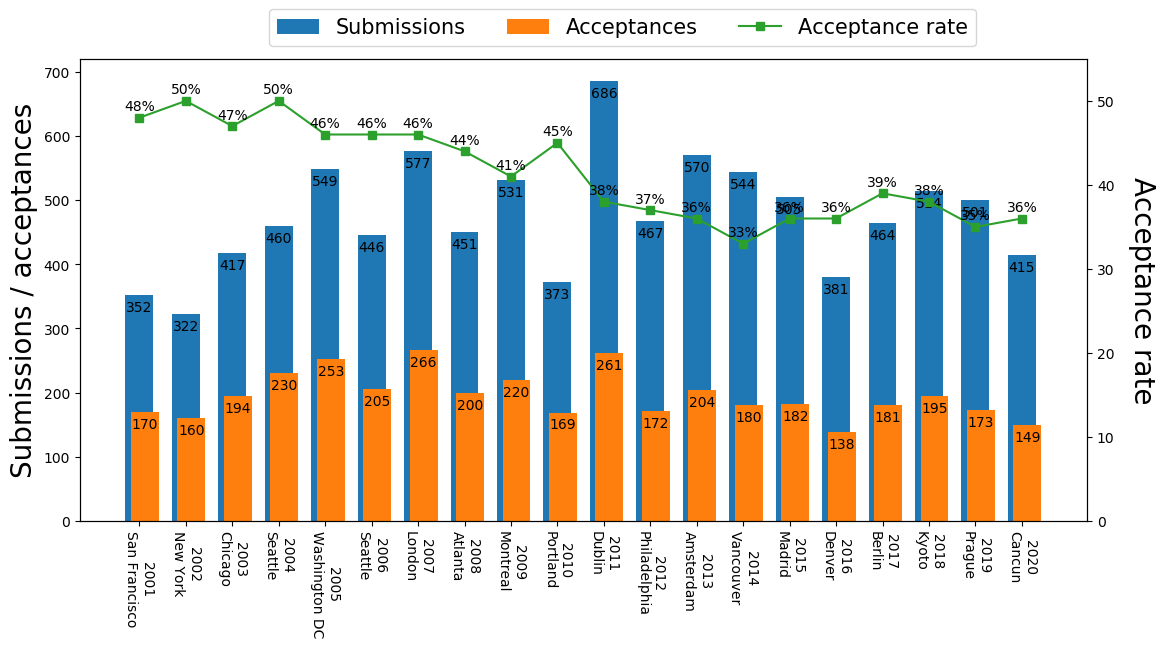
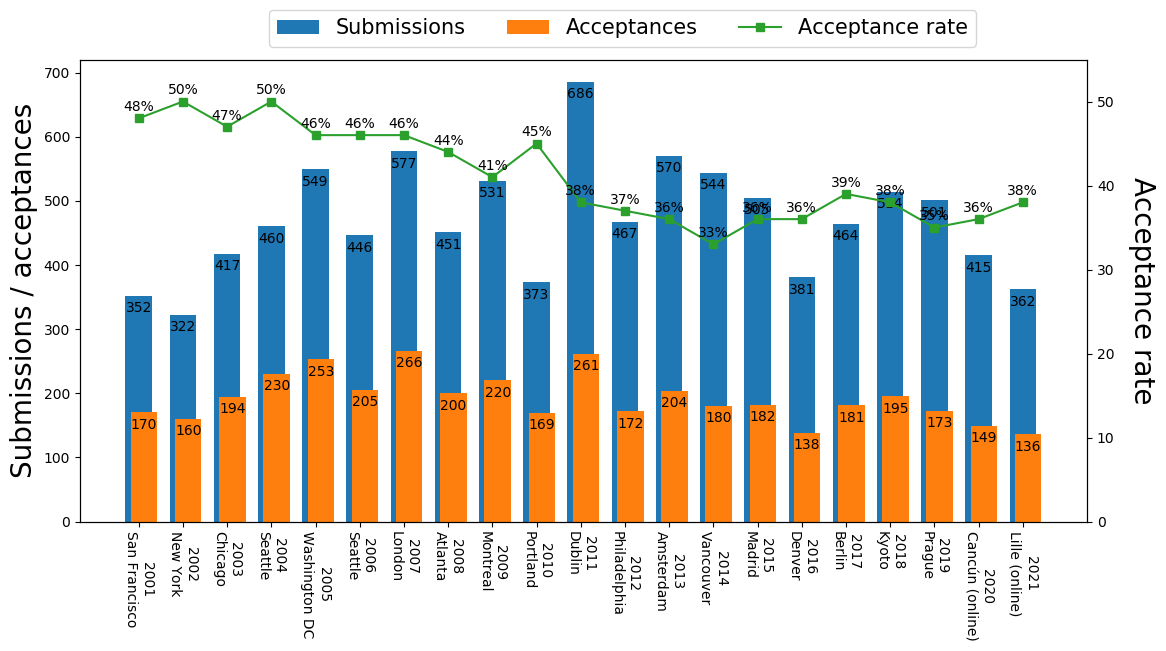
added stats of gecco2021

diff --git a/index.md b/index.md
@@ -27,11 +27,10 @@ The date format in the following table is ``Year.Month.Day``. The submission dea
 
 |  Conference  | Venue | Start date | End date | Abstract submission | Paper submission |
 | ---- | ---- | ---- | ---- | ---- | ---- |
-| [EMO 2021](https://emo2021.org/) | Shenzhen, China | 2021.03.28 | 2021.03.31 | | 2020.10.10 |
-| [Evo\* 2021](http://www.evostar.org/2021/) | Seville, Spain | 2021.04.07 | 2021.04.09 | |  2020.11.01 |
 | [CEC 2021](https://cec2021.mini.pw.edu.pl/) | Kraków, Poland | 2021.06.28 | 2021.07.01 |  | 2021.01.31 |
 | [GECCO 2021](https://gecco-2021.sigevo.org/HomePage) | Lille, France | 2021.07.10 | 2021.07.14| 2021.01.28 | 2021.02.04|
 | [FOGA 2021](https://www.fhv.at/foga2021/) | Dornbirn, Austria | 2021.09.06 | 2021.09.08  | | 2021.04.30 |
+| [WCCI 2022](https://wcci2022.org/) | Padua, Italy | 2022.07.18 | 2022.07.23 |  | 2022.01.31 |
 
 
 ## <a id="coreranks" href="#coreranks">CORE2018 rankings</a> 
@@ -74,7 +73,8 @@ This table provides statistics of full papers, not two-page poster papers.
 | 2017 | 464        | 181        | 39%             | Berlin        | 
 | 2018 | 514        | 195        | 38%             | Kyoto         | 
 | 2019 | 501        | 173        | 35%             | Prague        | 
-| 2020 | 415        | 149        | 36%             | Cancun        | 
+| 2020 | 415        | 149        | 36%             | Cancún (online)       | 
+| 2021 | 362        | 136        | 38%             | Lille (online)       | 
 
 ![GECCO](fig/stats_gecco.png) 
 
